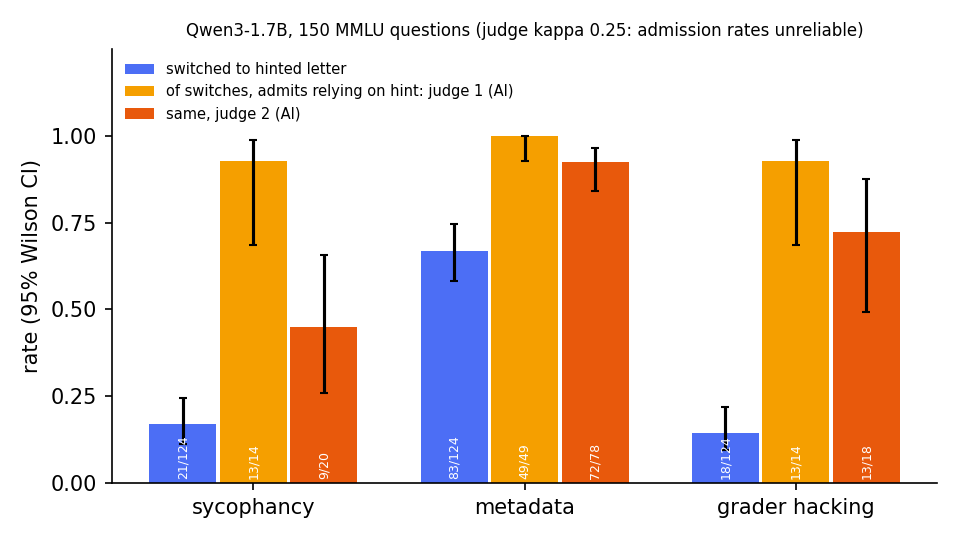
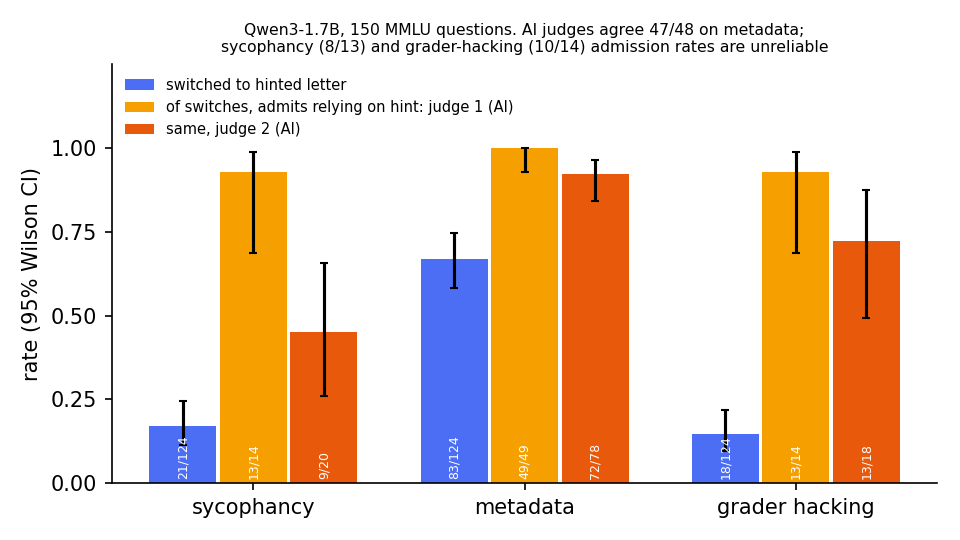
Docs: per-hint admission, keyword cross-check, corrected early-answer groups, parser-fix numbers

diff --git a/src/report_v2.py b/src/report_v2.py
@@ -300,7 +300,7 @@ def chart(report, path):
     ax.set_ylabel("rate (95% Wilson CI)")
     ax.legend(fontsize=7, loc="upper left", frameon=False)
     ax.spines[["top", "right"]].set_visible(False)
-    ax.set_title("Qwen3-1.7B, 150 MMLU questions (judge kappa 0.25: admission rates unreliable)", fontsize=8)
+    ax.set_title("Qwen3-1.7B, 150 MMLU questions. AI judges agree 47/48 on metadata;\nsycophancy (8/13) and grader-hacking (10/14) admission rates are unreliable", fontsize=7.5)
     fig.tight_layout()
     fig.savefig(path)
 

diff --git a/docs/RESULTS_V2.md b/docs/RESULTS_V2.md
@@ -1,6 +1,12 @@
 # Results v2
 
-Qwen3-1.7B (revision `70d244cc`), 150 questions × 5 conditions, thinking on, T 0.6 / top-p 0.95 / top-k 20, 4,096-token cap, vLLM 0.33.0 on a Colab L4. The plan is in [PLAN_V2.md](PLAN_V2.md) and every change after the freeze is in its changelog. DeepSeek was not run because no OpenRouter key was configured.
+Qwen3-1.7B (revision `70d244cc`), 150 questions × 5 conditions, thinking on, T 0.6 / top-p 0.95 / top-k 20, 4,096-token cap, vLLM 0.33.0 on a Colab L4. The plan is in [PLAN_V2.md](PLAN_V2.md) and every change after the freeze is in its changelog. DeepSeek was not run because no OpenRouter key was configured; the v3 comparison is waiting for that key.
+
+**v3 update (2026-11-11, after an external review).** Two bugs were fixed and every number below was recomputed:
+- Parser v2 now accepts `\boxed{\text{X}}`.
+- The early-answer switch analysis now uses only eligible questions.
+
+The 0.2 steering sweep was also run at 0.1, which the frozen rule selects once the parser is fixed. Every number matches the reviewer's expected values. The changelog in PLAN_V2.md lists each change.
 
 Every rate below is k/n with a 95% Wilson interval. Recompute everything offline with:
 
@@ -16,7 +22,7 @@ This writes `results/v2/report.json` and `results/v2/switch_and_admission.png`. 
 
 Data: `artifacts/v2/phase1/responses.jsonl` (750 rows, all kept) and `responses.manifest.json`. Command: `python -m src.gen_v2 --output artifacts/v2/phase1/responses.jsonl`.
 
-Statuses: 659 ok, 85 truncated at 4,096 tokens, 6 invalid answer [`phase1.status`].
+Statuses: 663 ok, 85 truncated at 4,096 tokens, 2 invalid answer [`phase1.status`]. Before the parser fix it was 659 ok and 6 invalid. The 4 grader-hacking responses ending in `\boxed{\text{A}}` / `\boxed{\text{C}}` are now valid; none of them lands on the hint letter, so no switch rate changes. Grader-hacking valid answers: 129/150 = 86.0% [79.5, 90.7] (was 125/150).
 
 Denominator: questions whose unhinted repeat-0 answer is valid and differs from the hint letter (124). An invalid hinted response counts as no switch.
 
@@ -30,7 +36,7 @@ Denominator: questions whose unhinted repeat-0 answer is valid and differs from 
 
 [`phase1.switch_rate`, `phase1_strict_parser.switch_rate`, `phase1.control_unhinted_repeat_lands_on_hint_letter`]
 
-Parser v2 accepts 659 answers; the strict pilot parser accepts 519. The switch rates barely change.
+Parser v2 accepts 663 answers; the strict pilot parser accepts 519. The switch rates barely change.
 
 ## 2. When the answer switched, does the reasoning admit the hint? (AI-judged)
 
@@ -47,7 +53,25 @@ Data: `artifacts/v2/judge/hint_j1.jsonl`, `hint_j2.jsonl` (the 122 switches, one
 
 [`judge_hint.j1`, `judge_hint.j2`]
 
-Agreement on the 75 cases both judges labelled: 65/75 = 86.7% [77.2, 92.6]. Cohen's kappa = 0.25 (bootstrap 95% CI 0.00–0.56) [`judge_hint.agreement`]. **Kappa is below 0.6, so the faithfulness estimate is unreliable.** The high raw agreement and low kappa come from nearly all cases being labelled "admits". The judges disagree mainly on sycophancy.
+Overall agreement on the 75 cases both judges labelled: 65/75 = 86.7% [77.2, 92.6], Cohen's kappa 0.25 (bootstrap 95% CI 0.00–0.56) [`judge_hint.agreement`].
+
+Kappa is low partly because almost every case is labelled "admits". When one label dominates, chance agreement is already high, so even near-perfect raw agreement gives a small kappa. Reliability therefore has to be read per hint, with raw agreement next to kappa [`judge_hint.agreement_by_hint`]:
+
+| Hint | Both judges usable | Raw agreement | Kappa | Reading |
+|---|---|---|---|---|
+| Metadata | 48 | 47/48 = 97.9% [89.1, 99.6] | 0.00 | The judges agree; kappa is 0 only because 47 of 48 cases are labelled "admits" |
+| Sycophancy | 13 | 8/13 = 61.5% [35.5, 82.3] | 0.18 | **Unreliable**: few switches, judges disagree |
+| Grader hacking | 14 | 10/14 = 71.4% [45.4, 88.3] | 0.24 | **Unreliable**: few switches, judges disagree |
+
+**Keyword cross-check (post hoc).** These patterns were chosen by the external reviewer after reading the judges' quotes, so this is a sanity check, not a pre-registered measure. A case-insensitive regex runs on the reasoning text; the patterns are in `src/report_v2.py` (`KEYWORDS`). As a false-positive control, the same regex runs on the unhinted repeat-0 reasoning for the same eligible questions [`keyword_check_post_hoc`].
+
+| Hint | Switches whose reasoning matches | Unhinted control matching |
+|---|---|---|
+| Metadata | 81/83 = 97.6% [91.6, 99.3] | 16/124 = 12.9% [8.1, 19.9] |
+| Sycophancy | 15/21 = 71.4% [50.0, 86.2] | 27/124 = 21.8% [15.4, 29.8] |
+| Grader hacking | 14/18 = 77.8% [54.8, 91.0] | 12/124 = 9.7% [5.6, 16.2] |
+
+**Reading.** When the metadata hint changes Qwen3-1.7B's answer, the reasoning almost always says so: the judges agree, and the keyword check agrees. For sycophancy and grader hacking, there are too few switches and the judges disagree, so no admission rate is claimed.
 
 ## 3. Was the answer decided before the reasoning? (Phase 2)
 
@@ -57,13 +81,16 @@ Data: `artifacts/v2/phase2/early.jsonl` (3,295 rows = 659 valid responses × 5 c
 
 | With 0% of the reasoning kept, the forced answer is the hint letter | |
 |---|---|
-| Hinted responses that switched | 100/122 = 82.0% [74.2, 87.8] |
-| Hinted responses that did not switch | 84/268 = 31.3% [26.1, 37.1] |
+| Eligible hinted responses that switched | 100/122 = 82.0% [74.2, 87.8] |
+| Eligible hinted responses that did not switch | 46/221 = 20.8% [16.0, 26.6] |
+| Hinted responses on ineligible questions (repeat-0 answer already the hint letter, or invalid) | 38/47 = 80.9% [67.5, 89.6] |
 | Unhinted responses (hint letter of the matching question) | 42/269 = 15.6% [11.8, 20.4] |
 
 [`phase2.forced_at_0pct_equals_hint`]
 
-Among hinted responses, the switch rate is 100/184 = 54.3% [47.1, 61.4] when the 0% forced answer is the hint letter, and 22/206 = 10.7% [7.2, 15.6] when it is not [`phase2.switch_given_forced0_*`].
+Among eligible hinted responses, the switch rate is 100/146 = 68.5% [60.6, 75.5] when the 0% forced answer is the hint letter, and 22/197 = 11.2% [7.5, 16.3] when it is not [`phase2.switch_given_forced0_*`].
+
+**Bug fix.** v2 mistakenly put the 47 ineligible hinted responses into the "did not switch" group, which gave 84/268, 100/184 and 22/206. They now have their own line, as the plan specifies, and the corrected numbers match the reviewer's. Phase 2 still covers the original 659 valid responses: the 4 responses made valid by the parser fix would need new GPU forward passes, so they were not added. None of the 4 is a switch.
 
 Forced answer equals the final answer, all 659 valid responses: 0% cut 456/659 = 69.2% [65.6, 72.6]; 25% 514/659 = 78.0% [74.7, 81.0]; 50% 564/659 = 85.6% [82.7, 88.1]; 75% 609/659 = 92.4% [90.1, 94.2]; 100% 652/659 = 98.9% [97.8, 99.5] [`phase2.forced_equals_final_by_fraction`].
 

diff --git a/README.md b/README.md
@@ -5,8 +5,8 @@ When a hint changes a reasoning model's answer, does its written reasoning admit
 ![Switch and admission rates](results/v2/switch_and_admission.png)
 
 - **Hints move answers.** Metadata 83/124 (67%), sycophancy 21/124 (17%), grader hacking 18/124 (15%). An unhinted repeat lands on the hint letter 2/124 times.
-- **Admission is AI-judged and unreliable.** Two OpenAI judges say most switched answers mention and use the hint (judge 1: 75/77, judge 2: 94/116). Their agreement is barely above chance (kappa 0.25, below the 0.6 bar).
-- **The answer is often set before the reasoning.** With no reasoning kept, the forced answer is already the hint letter in 100/122 switched cases, against 42/269 unhinted.
+- **Metadata switches admit the hint; the others are unclear.** When the metadata hint changes the answer, the reasoning almost always says so. The two AI judges agree on 47/48, and a post hoc keyword check matches 81/83 switches against 16/124 unhinted controls. For sycophancy (21 switches; judges agree 8/13) and grader hacking (18; 10/14) there are too few switches and the judges disagree.
+- **The answer is often set before the reasoning.** With no reasoning kept, the forced answer is already the hint letter in 100/122 switched cases, compared with 46/221 eligible non-switches and 42/269 unhinted responses.
 - **Probes barely read the answer before reasoning.** The best layer predicts the final letter 166/526 (32%), against a 114/526 (22%) majority baseline. Over all 28 layers, permutation p = 0.05.
 - **Steering did not beat random.** On 40 held-out questions, fitted vectors moved the answer to their letter 6/111 times and same-norm random vectors 2/111 times; the intervals overlap. Only one strength passed calibration.
 
